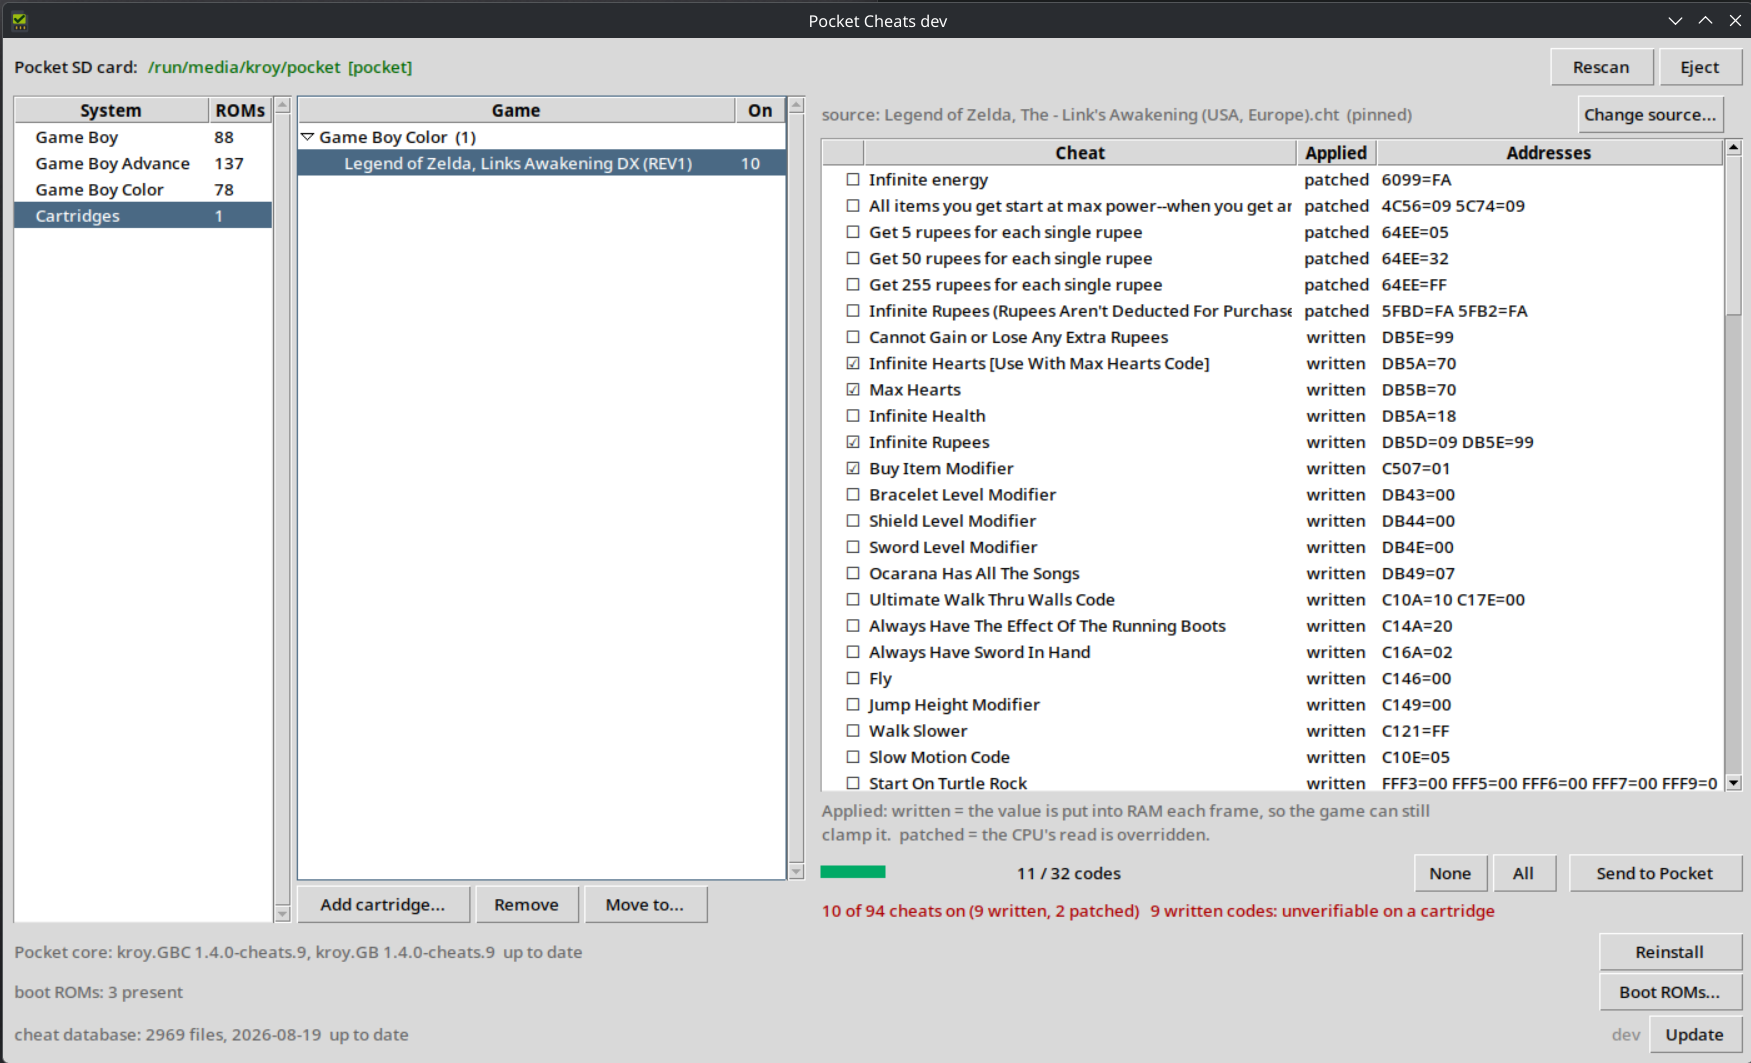
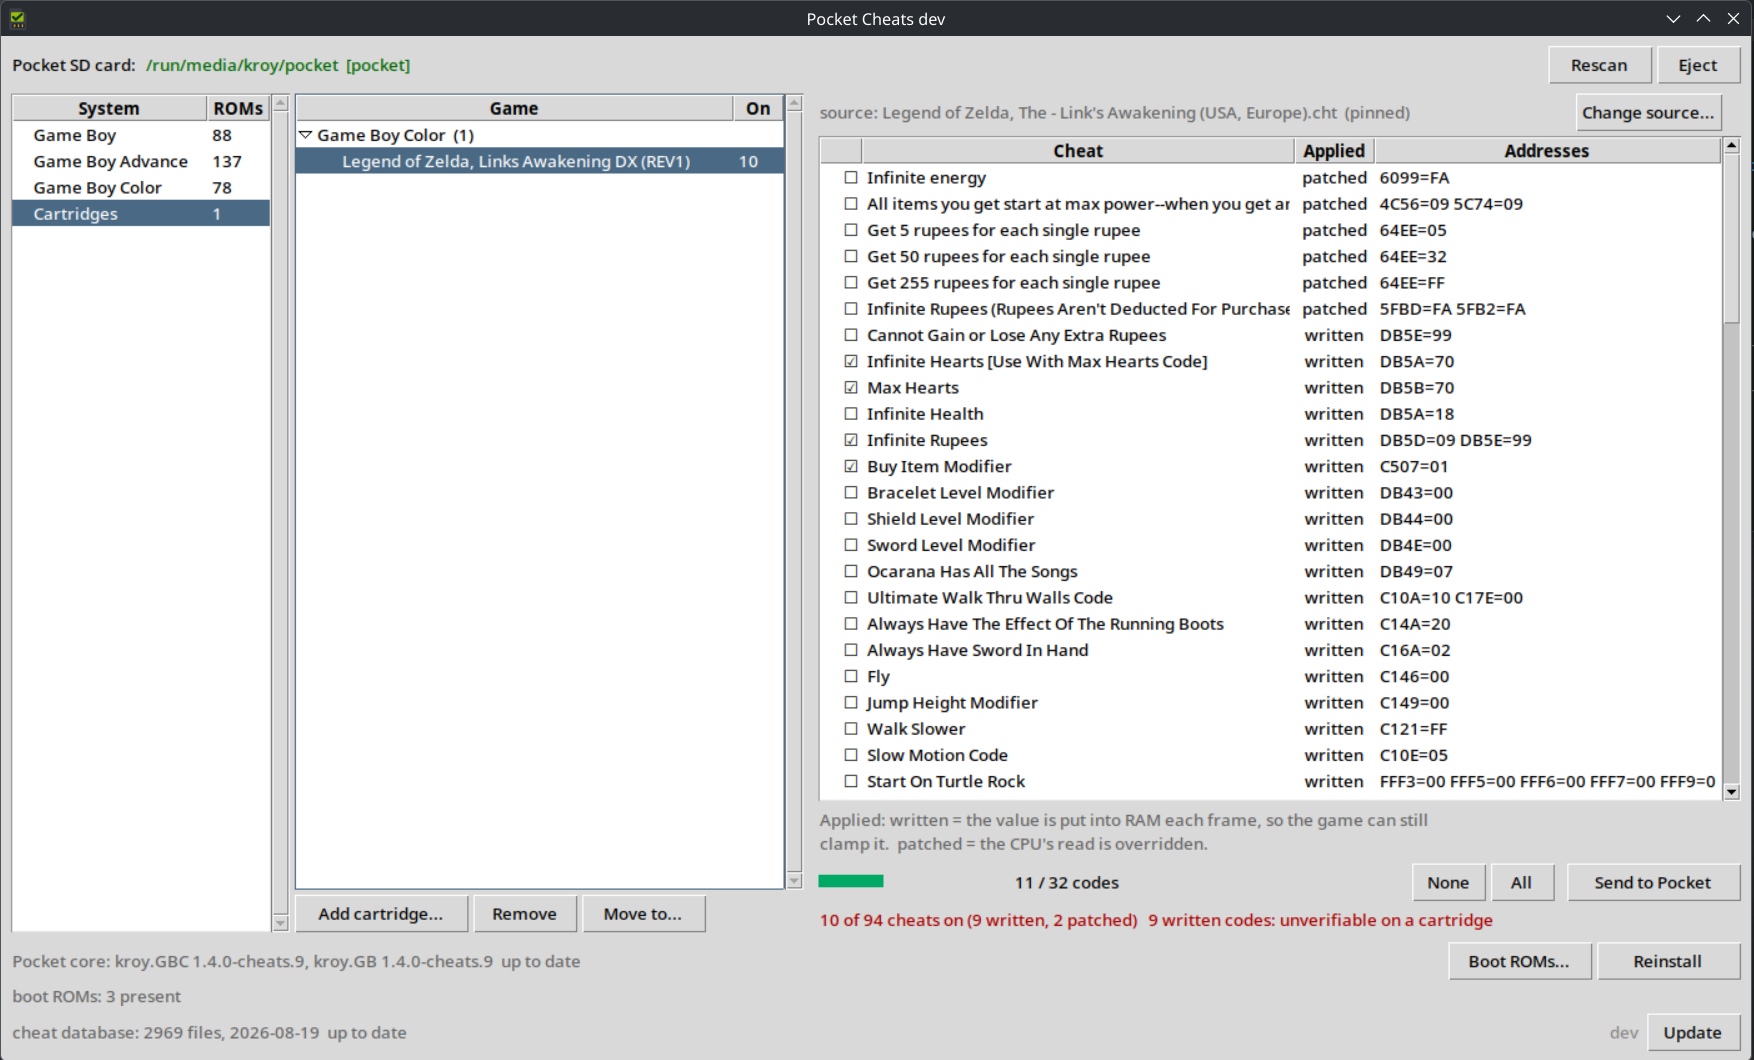
put the two core buttons on one row
One per line stacked them down the bottom right corner with Update, three
buttons in a column, each a long way from the line it acts on and reading
as part of the status area rather than the core. Screenshot with them.

Changed region(s): [[0.0, 0.0, 1.0, 1.0], [0.4626, 0.0, 0.5551, 0.0311]]

diff --git a/cheatgui/ui.py b/cheatgui/ui.py
@@ -188,14 +188,19 @@ class App(ttk.Frame):
                                     foreground="#666")
         self.core_label.grid(row=0, column=0, sticky="w")
         self.core_bar = ttk.Progressbar(bar, length=180, mode="determinate")
-        self.core_btn = ttk.Button(bar, text="Install core", width=13,
-                                   command=self.install_core, state="disabled")
-        self.core_btn.grid(row=0, column=2, padx=(6, 0))
-        self.bios_label = ttk.Label(bar, text="", foreground="#666")
-        self.bios_label.grid(row=1, column=0, sticky="w", pady=(2, 0))
+        # Both buttons on the first row, next to each other. One per line put
+        # three buttons in a column down the bottom right corner, each of them
+        # a long way from the line it acts on, and they read as belonging to
+        # the status area rather than to the core.
         self.bios_btn = ttk.Button(bar, text="Boot ROMs...", width=13,
                                    command=self.show_roms, state="disabled")
-        self.bios_btn.grid(row=1, column=2, padx=(6, 0), pady=(2, 0))
+        self.bios_btn.grid(row=0, column=2, padx=(6, 0))
+        self.core_btn = ttk.Button(bar, text="Install core", width=13,
+                                   command=self.install_core, state="disabled")
+        self.core_btn.grid(row=0, column=3, padx=(4, 0))
+        self.bios_label = ttk.Label(bar, text="", foreground="#666")
+        self.bios_label.grid(row=1, column=0, columnspan=4, sticky="w",
+                             pady=(2, 0))
 
     def _build_dbbar(self) -> None:
         """Which cheat database is in use, how old it is, and updating it."""
